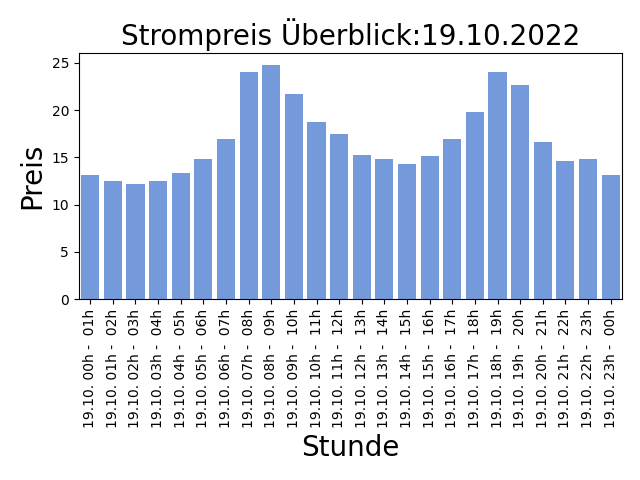
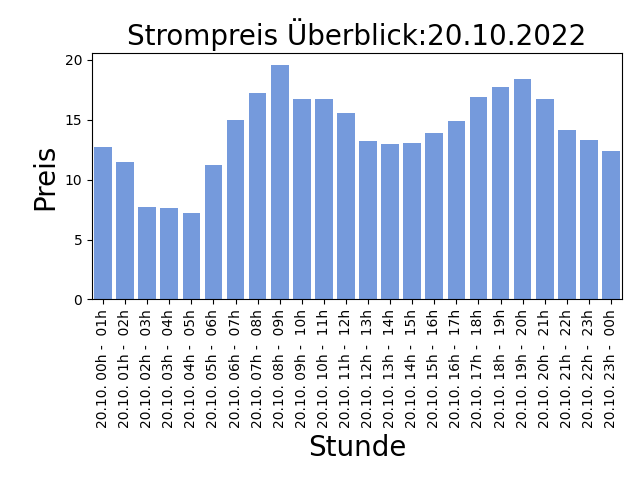
AUTOMATIC UPDATE PRICE LIST: 2022-10-19-14:30:06

diff --git a/README.md b/README.md
@@ -1,5 +1,5 @@
 
-## Strompreise für den 19.10.2022
+## Strompreise für den 20.10.2022
 
 Niedrige Preise deuten auf viel Sonnen und Windenergieerzeugung hin, ein hoher Anteil an erneuerbaren Energien bedeuted weniger CO2 Verbrauch!
 
@@ -7,31 +7,31 @@ Niedrige Preise deuten auf viel Sonnen und Windenergieerzeugung hin, ein hoher A
 
 | Stunde | Preis in Cent/kWh |
 |---|---|
-| 19.10. 00h -  01h | 13.162 | 
-| 19.10. 01h -  02h | 12.518 | 
-| **19.10. 02h -  03h** | **12.142** | 
-| 19.10. 03h -  04h | 12.512 | 
-| 19.10. 04h -  05h | 13.318000000000001 | 
-| 19.10. 05h -  06h | 14.86 | 
-| 19.10. 06h -  07h | 16.943 | 
-| 19.10. 07h -  08h | 24.065 | 
-| 19.10. 08h -  09h | 24.774 | 
-| 19.10. 09h -  10h | 21.669 | 
-| 19.10. 10h -  11h | 18.731 | 
-| 19.10. 11h -  12h | 17.476 | 
-| 19.10. 12h -  13h | 15.262 | 
-| 19.10. 13h -  14h | 14.818999999999999 | 
-| 19.10. 14h -  15h | 14.248 | 
-| 19.10. 15h -  16h | 15.126 | 
-| 19.10. 16h -  17h | 16.893 | 
-| 19.10. 17h -  18h | 19.784 | 
-| 19.10. 18h -  19h | 24.016 | 
-| 19.10. 19h -  20h | 22.692 | 
-| 19.10. 20h -  21h | 16.65 | 
-| 19.10. 21h -  22h | 14.657 | 
-| 19.10. 22h -  23h | 14.815000000000001 | 
-| 19.10. 23h -  00h | 13.157 | 
+| 20.10. 00h -  01h | 12.753 | 
+| 20.10. 01h -  02h | 11.489 | 
+| 20.10. 02h -  03h | 7.739 | 
+| 20.10. 03h -  04h | 7.601999999999999 | 
+| **20.10. 04h -  05h** | **7.197** | 
+| 20.10. 05h -  06h | 11.234 | 
+| 20.10. 06h -  07h | 14.952000000000002 | 
+| 20.10. 07h -  08h | 17.271 | 
+| 20.10. 08h -  09h | 19.581 | 
+| 20.10. 09h -  10h | 16.765 | 
+| 20.10. 10h -  11h | 16.741 | 
+| 20.10. 11h -  12h | 15.550999999999998 | 
+| 20.10. 12h -  13h | 13.219999999999999 | 
+| 20.10. 13h -  14h | 12.966 | 
+| 20.10. 14h -  15h | 13.030000000000001 | 
+| 20.10. 15h -  16h | 13.861 | 
+| 20.10. 16h -  17h | 14.913999999999998 | 
+| 20.10. 17h -  18h | 16.934 | 
+| 20.10. 18h -  19h | 17.768 | 
+| 20.10. 19h -  20h | 18.405 | 
+| 20.10. 20h -  21h | 16.718 | 
+| 20.10. 21h -  22h | 14.148 | 
+| 20.10. 22h -  23h | 13.273 | 
+| 20.10. 23h -  00h | 12.411 | 
 
 Preise der EPEX Spot ® Strombörse (neue Preise werden täglich um 14:00 veröffentlicht für den kompletten nächsten Tag).
 
-letzte Aktualisierung:18.10.2022 14:30
+letzte Aktualisierung:19.10.2022 14:30
